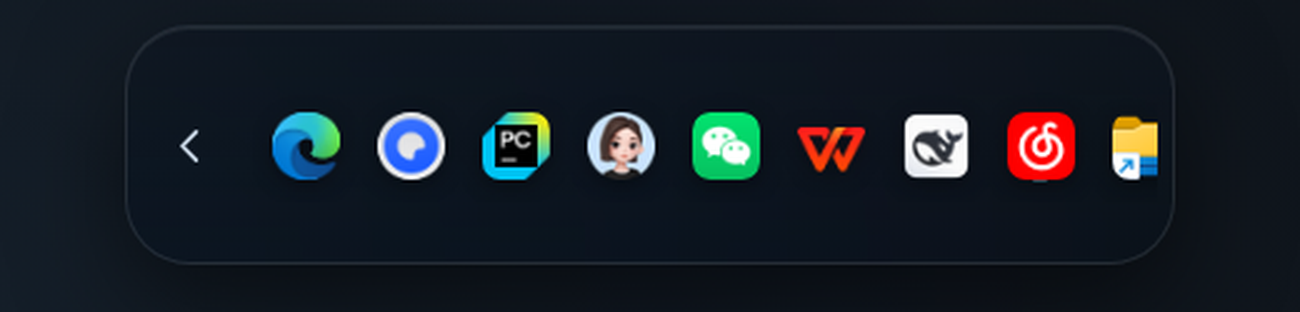
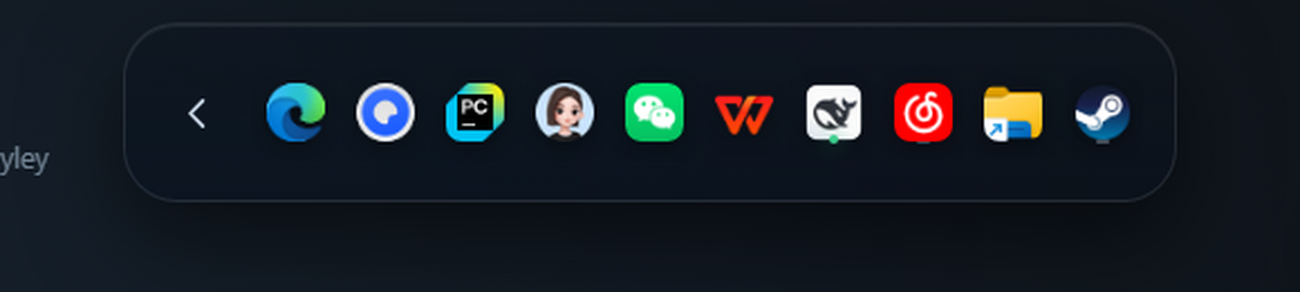
fix(任务栏): 一级排版与二级比例重新定尺寸
- 一级：卡片 248→284，按钮 38→36，间距 6→8，九宫格前留 4px
  （原来 6 个 38px 按钮塞进 248px，最后一个图标和九宫格贴在一起）
- 二级：420×96 → 470×80，图标间距 6→8
- 实测间距: [8, 12]，右侧余量 3px；二级 grid 398×44，可横向滚动
- 交接文档补充本轮记录

diff --git a/web/app.css b/web/app.css
@@ -1051,8 +1051,8 @@ html.glass-light {
   #taskIsland {
     position: fixed; top: calc(10px + env(safe-area-inset-top)); left: 50%;
     z-index: 69;
-    width: 248px; height: 46px; border-radius: 24px;
-    padding: 0 6px;
+    width: 284px; height: 48px; border-radius: 24px;
+    padding: 0 10px;
     display: flex; align-items: center;
     /* 项目统一的浮层玻璃：#hud/.round/#numpad/#panel/#island 用的就是这一套 */
     background: linear-gradient(180deg, var(--glass-top) 0%, var(--glass-bot) 100%);
@@ -1083,25 +1083,26 @@ html.glass-light {
   #taskIsland button:active { transform: scale(.86); }
   #taskIsland svg { width: 19px; height: 19px; display: block; fill: currentColor; }
 
-  .ti-l1 { display: flex; align-items: center; gap: 6px; width: 100%; justify-content: center; }
+  .ti-more { margin-left: 4px; }
+  .ti-l1 { display: flex; align-items: center; gap: 8px; width: 100%; justify-content: center; }
   .ti-l2 { display: flex; align-items: center; gap: 6px; width: 100%; }
 
-  .ti-ico { width: 38px; height: 38px; border-radius: 12px; flex: none; }
+  .ti-ico { width: 36px; height: 36px; border-radius: 11px; flex: none; }
   .ti-ico:hover { background: rgba(255, 255, 255, .07); }
   .ti-start svg { width: 20px; height: 20px; }
   .ti-start { color: #dbe7f3; }
   .ti-more, .ti-back { color: #9fb0c2; }
 
-  .ti-recent { display: flex; align-items: center; gap: 6px; flex: 0 1 auto; min-width: 0; }
+  .ti-recent { display: flex; align-items: center; gap: 8px; flex: none; }
 
   .ti-app {
-    width: 38px; height: 38px; border-radius: 12px; flex: none;
+    width: 36px; height: 36px; border-radius: 11px; flex: none;
     position: relative;
     display: grid; place-items: center;
     background: transparent; border: none; padding: 0;
     transition: transform var(--t-fast) var(--ease-spring), background var(--t-fast) ease;
   }
-  .ti-app img { width: 27px; height: 27px; pointer-events: none;
+  .ti-app img { width: 26px; height: 26px; pointer-events: none;
     border-radius: 7px;
     filter: drop-shadow(0 2px 4px rgba(0, 0, 0, .45)); }
   .ti-app:active { transform: scale(.86); }
@@ -1118,7 +1119,7 @@ html.glass-light {
   .ti-app.ghost img { opacity: .5; }
 
   /* 二级菜单 */
-  #taskIsland.l2 { width: min(94vw, 420px); height: 96px; border-radius: 26px; }
+  #taskIsland.l2 { width: min(94vw, 470px); height: 80px; border-radius: 24px; padding: 0 14px; }
   #taskIsland.l2 .ti-grid { touch-action: pan-x; }
   #taskIsland.l2 .ti-l1 { display: none; }
   .ti-grid {

diff --git a/web/index.html b/web/index.html
@@ -5,7 +5,7 @@
 <meta name="viewport" content="width=device-width,initial-scale=1,maximum-scale=1,user-scalable=no,viewport-fit=cover">
 <meta name="theme-color" content="#0d1117">
 <title>PadTrack 触控板</title>
-<link rel="stylesheet" href="app.css?v=1172">
+<link rel="stylesheet" href="app.css?v=1174">
 </head>
 <body>
 
@@ -200,6 +200,6 @@
   </div>
 </div>
 
-<script src="app.js?v=1172"></script>
+<script src="app.js?v=1174"></script>
 </body>
 </html>

diff --git a/交接文档.md b/交接文档.md
@@ -902,3 +902,17 @@ SMTC 有 `Thumbnail`（`hasThumb=True`），但取不出字节：
 - 切换窗口用 SetForegroundWindow，前台锁挡住时会先发一次 Alt 键再抢
 - 打包时注意：发布\PadTrack 里会残留 _internal_<stamp> / PadTrack_<stamp>.exe（正在运行的进程占着），
   压包必须排除，否则 zip 从 12.77MB 涨到 21.56MB
+
+## 2026-11-13 晚：任务栏卡片对齐 Windows 任务栏
+
+- 顺序/成员来源：UI Automation 读 Shell_TrayWnd 的按钮（Class=Button），
+  拿到真实顺序 + 「已固定 / N 个运行窗口」标记。比按 Z 序或文件时间靠谱，
+  而且点击窗口不会重排。
+- 固定但没运行的程序：图标走 .lnk → 解析目标 exe → 从目标提图标
+  （直接对 .lnk 提会拿到带小箭头的快捷方式图标）。
+- 尺寸（踩坑记录）：
+  - 一级：卡片 284×48，按钮 36px，间距 8px，九宫格前多 4px；
+    之前 248px 放 6 个 38px 按钮必然挤在一起。
+  - 二级：470×80，一行 36px 图标，横向滚动。
+- PowerShell 脚本必须写成 **UTF-8 with BOM**（utf-8-sig），
+  否则 PS 5.1 按 GBK 读，中文全乱码导致语法错误 —— 这次 UIA 脚本就是这么挂的。
